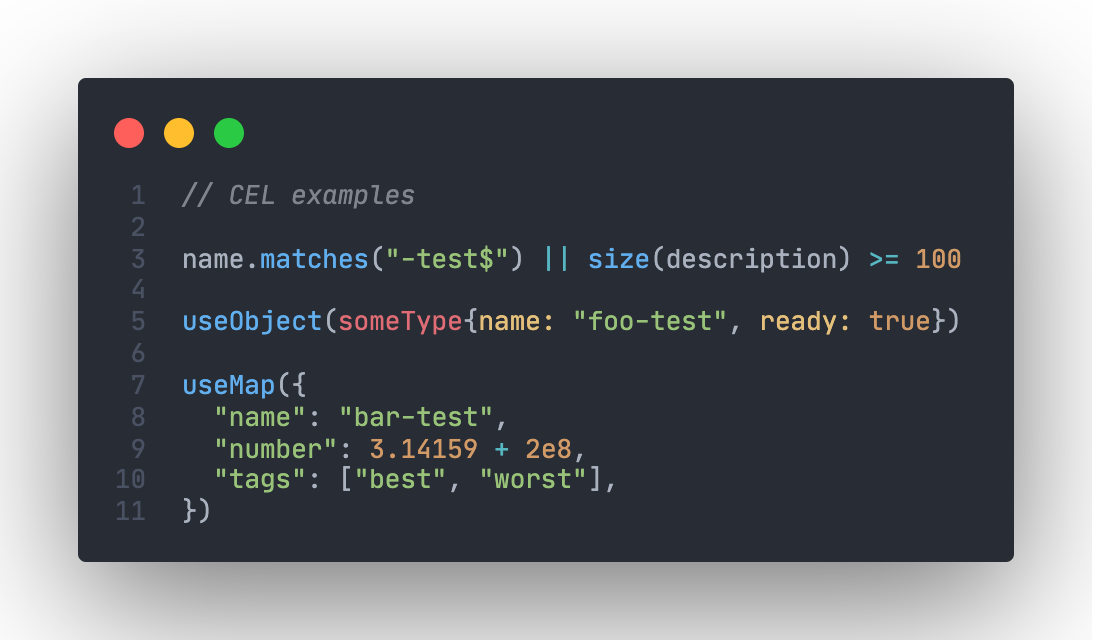
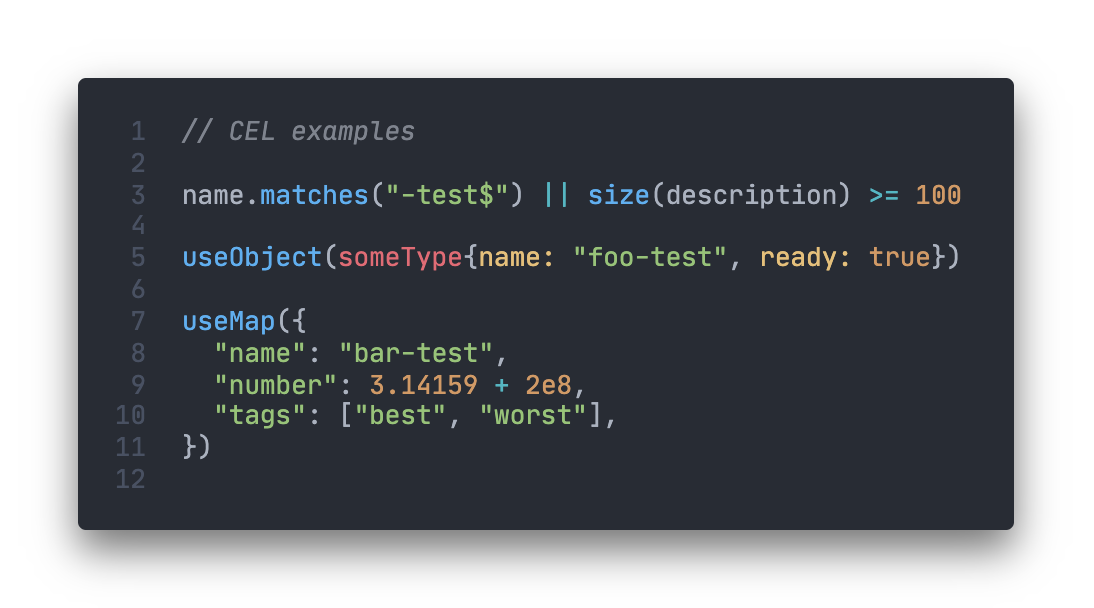
Fix image shadow

diff --git a/README.md b/README.md
@@ -5,7 +5,9 @@
 
 Adds syntax highlighting for [CEL (Common Expression Language)](https://opensource.google/projects/cel) to Visual Studio Code.
 
-<img alt="CEL syntax highlighting" src="images/cel-syntax-highlighting.png" width="433px">
+<p align="center">
+  <img alt="CEL syntax highlighting" src="images/cel-syntax-highlighting.png" width="433px">
+</p>
 
 Install it from the [Visual Studio Code Marketplace](https://marketplace.visualstudio.com/items?itemName=hmarr.cel).
 
